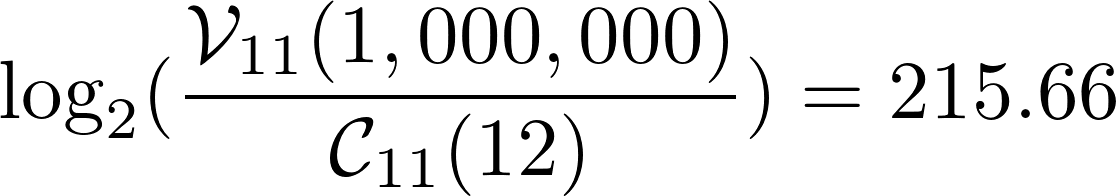
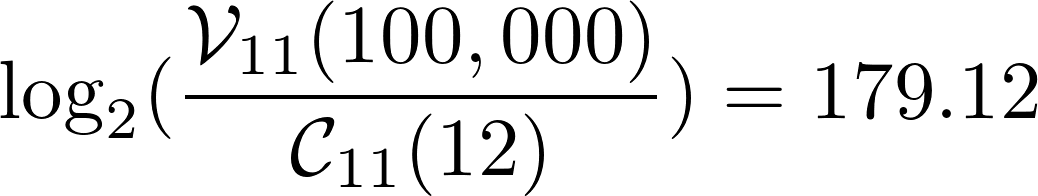
update equation example

Changed region(s): [[0.0, 0.0, 1.0, 0.7041], [0.2775, 0.5816, 0.5241, 1.0]]

diff --git a/sfs/explainer.md b/sfs/explainer.md
@@ -127,14 +127,14 @@ The author suspects attackers would likely optimize their attempts in a number o
 1. Use a smaller threshold count for permutation iteration based on known threshold norms used in popular secret construction implementations.
 2. Spawn multiple threads/jobs (one per combination?) to iterate the permutations against all unique, non-repeating combination of the selected threshold. The assumption of the author is that iteration of permutations and input/share assembly across multiple share combination sets in parallel would reach a match sooner by compounding match distribution probabilities.
 
-In our example case, the user created 12 shares (_n_), thus (without optimization) the attacker would be required to iterate all permutations of an assumed 1 million input message space using 11 as the set section size (_n - 1_). The number of bits is then equal to the log 2 result of the number of permutations.
+In our example case, the user created 12 shares (_n_), thus (without optimization) the attacker would be required to iterate all permutations of an assumed 100k input message space using 11 as the set section size (_n - 1_). The number of bits is then equal to the log 2 result of the number of permutations.
 
 <!--
 $$
   {
     \log_{2}(
-      {\mathcal{V}_{11}(1,000,000) \over{\mathcal{C}_{11}(12)}}
-    ) = 215.66
+      {\mathcal{V}_{11}(100,000) \over{\mathcal{C}_{11}(12)}}
+    ) = 179.12
   }
 $$
 -->
